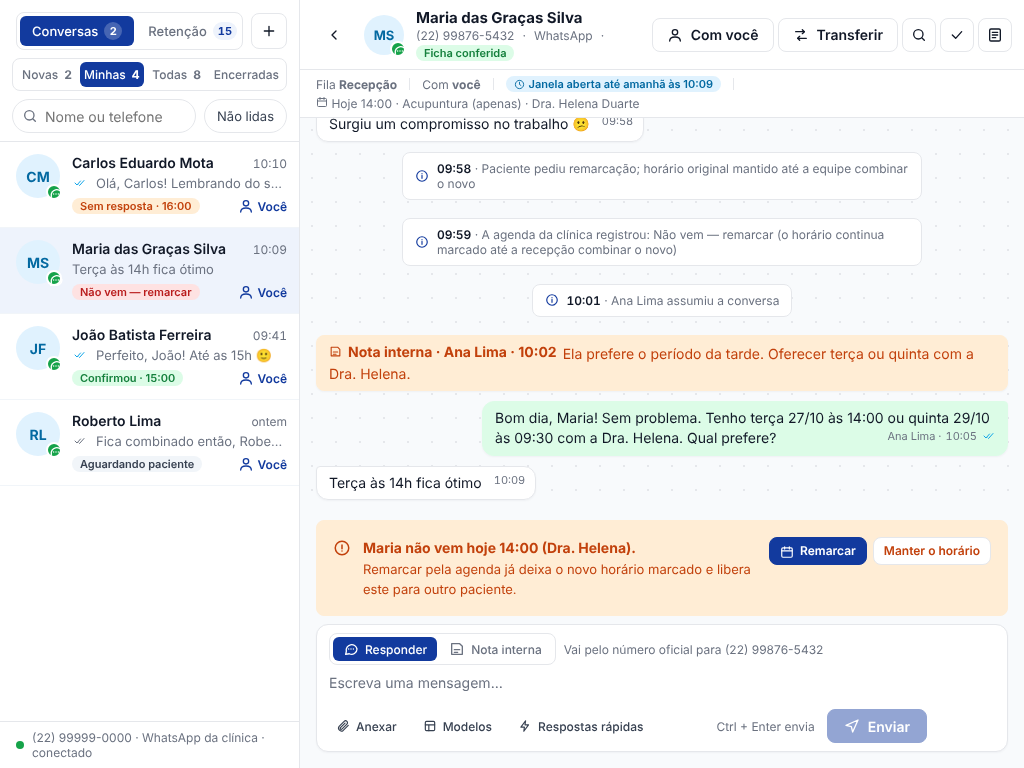
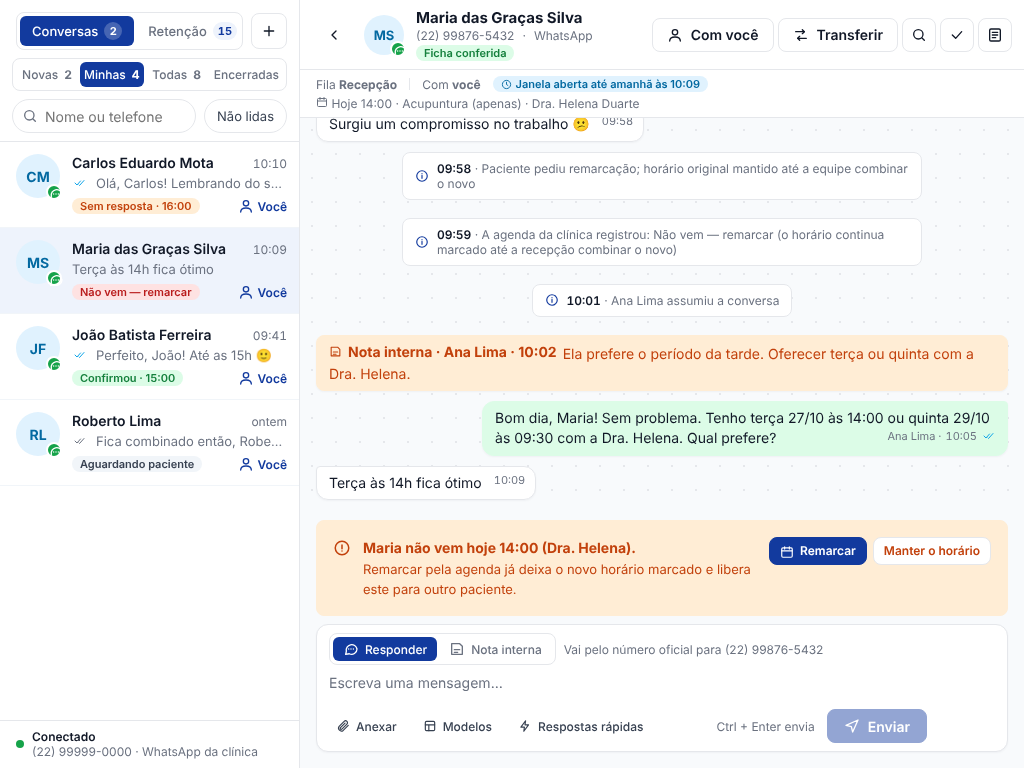
WhatsApp nativo: semente das telas estável no Postgres e acabamento do cabeçalho
- Semente da Equipe: a sessão do Dr. Caio dentro das férias caía em
  "hoje + 20" e ele só atende terça e quinta — no Postgres o gatilho
  CK_Agenda_Protegida recusava a semente em cinco dias de cada sete. Agora cai
  na terça ou quinta das férias e é gravada antes do bloqueio. Conferido com
  faketime nos sete dias; TelasBlazorAbremTests passou inteiro no Postgres
  (161/161). Resolve a pergunta 7 do roteiro da manhã.
- Conversa: o separador que podia ficar pendurado no fim da linha quando o
  cabeçalho ou a faixa quebram saiu (o selo já separa); o rodapé da lista
  mostra o estado em cima ("Conectado") e o número embaixo, em vez de quebrar
  o "conectado" sozinho. Fotos 02 refeitas em 1366 e 1024.
- Lição: semente com data relativa respeita a jornada de quem tem agenda
  protegida.

Claude-Session: https://claude.ai/code/session_01HpPiBY5jRicdjB3mfhNSrv

Changed region(s): [[0.0, 0.9375, 0.25, 1.0], [0.4688, 0.0938, 0.7188, 0.125]]

diff --git a/src/Clinica.Ui.Blazor/Ativos/css/telas/conversas.css b/src/Clinica.Ui.Blazor/Ativos/css/telas/conversas.css
@@ -99,6 +99,9 @@
   display:flex;align-items:center;gap:var(--space-2)}
 .wa-ponto{width:8px;height:8px;border-radius:50%;background:var(--sucesso);flex:none}
 .wa-ponto.fora{background:var(--erro)}
+.wa-conexao{display:flex;flex-direction:column;min-width:0;line-height:1.3}
+.wa-conexao b{font-weight:600;color:var(--texto-primario)}
+.wa-conexao small{font-size:inherit;overflow:hidden;text-overflow:ellipsis;white-space:nowrap}
 .wa-linhas .vazio-estado{padding:var(--space-10) var(--space-4)}
 
 /* ---------- Coluna 2: a conversa ---------- */

diff --git a/tools/PreviaBlazor/Sementes/Equipe.cs b/tools/PreviaBlazor/Sementes/Equipe.cs
@@ -87,15 +87,22 @@ public sealed class SementeEquipe : ISemente
         B(hoje.AddDays(9), hoje.AddDays(9).AddHours(23).AddMinutes(59), "Folga compensatória", profissional: abigail.Id);
         B(hoje.AddDays(40), hoje.AddDays(54).AddHours(23).AddMinutes(59), "Férias", profissional: abigail.Id);
 
-        // As férias do Dr. Caio, com uma sessão que já estava marcada dentro.
+        // As férias do Dr. Caio, com uma sessão que já estava marcada dentro. A sessão cai numa
+        // terça ou quinta às 15h (a jornada dele; as férias têm sete dias, então sempre há uma) e é
+        // gravada ANTES do bloqueio, como na vida real: no Postgres o gatilho da agenda protegida
+        // (CK_Agenda_Protegida) recusaria um horário fora da jornada ou dentro de um bloqueio já
+        // existente — e com o dia fixo em "+2" a semente quebrava em cinco dias de cada sete.
         var inicioFerias = hoje.AddDays(18);
-        B(inicioFerias, inicioFerias.AddDays(6).AddHours(23).AddMinutes(59), "Congresso de psiquiatria", profissional: caio.Id);
+        var diaDaSessao = Enumerable.Range(0, 7).Select(d => inicioFerias.AddDays(d))
+            .First(d => d.DayOfWeek is DayOfWeek.Tuesday or DayOfWeek.Thursday);
         var paciente = db.Pacientes.OrderBy(p => p.Id).First();
         db.Add(new Agendamento
         {
-            PacienteId = paciente.Id, ProfissionalId = caio.Id, DataHora = inicioFerias.AddDays(2).AddHours(15),
+            PacienteId = paciente.Id, ProfissionalId = caio.Id, DataHora = diaDaSessao.AddHours(15),
             ModalidadePrevista = ModalidadeAtendimento.Consulta, Status = StatusAgendamento.Agendado, DuracaoMinutos = 50
         });
+        db.SaveChanges();
+        B(inicioFerias, inicioFerias.AddDays(6).AddHours(23).AddMinutes(59), "Congresso de psiquiatria", profissional: caio.Id);
 
         B(hoje.AddDays(12).AddHours(13), hoje.AddDays(12).AddHours(18), "Manutenção do ar-condicionado", sala: alecrim.Id);
 

diff --git a/docs/agentes/convencoes.md b/docs/agentes/convencoes.md
@@ -5,7 +5,7 @@ sessão). O texto é o MESMO, sem reescrita: design system, WPF/XAML, Blazor, EF
 `verificar-suite`, assinatura digital, impressão, CRM e as rodadas de UI, cada uma com o defeito que a
 originou. Antes de escrever uma tela, uma consulta ou uma checagem, procure aqui a lição da área.
 
-## Índice (184 tópicos, na ordem do arquivo)
+## Índice (185 tópicos, na ordem do arquivo)
 
 Procure a palavra da área (`grep -n "palavra" docs/agentes/convencoes.md`) e leia o tópico inteiro antes de mexer nela.
 
@@ -193,6 +193,7 @@ Procure a palavra da área (`grep -n "palavra" docs/agentes/convencoes.md`) e le
 - Arquivo novo da prévia que uma SEMENTE usa entra também no `ValidarLayoutWindows.csproj`
 - `textarea` herda a fonte da casa pela regra COMUM, não por remendo de tela
 - Parâmetro `string` de componente Razor recebe expressão com `@`; sem ela recebe o TEXTO
+- Semente com data relativa a "hoje" respeita a JORNADA de quem tem agenda protegida
 
 ---
 
@@ -5005,3 +5006,12 @@ Procure a palavra da área (`grep -n "palavra" docs/agentes/convencoes.md`) e le
   pegou. Regra: atributo de componente que leva expressão começa com `@` sempre
   (`TelefoneInicial="@f.TelefoneInicial"`), e parâmetro novo `string` nasce com um teste que lê o
   que ele mostra.
+
+- **Semente com data relativa a "hoje" respeita a JORNADA de quem tem agenda protegida**
+  (out/2026). A sessão do Dr. Caio nas férias dele era `hoje + 20` às 15h; ele só atende terça e
+  quinta, e no Postgres o gatilho `CK_Agenda_Protegida` recusava a semente em cinco dias de cada
+  sete. O SQLite não tem o gatilho, então a prévia e o CI nunca viram. Regra: horário semeado para
+  profissional com `AgendaProtegida` escolhe um dia da jornada dele (procure o dia, não some um
+  número fixo), e o horário que "já estava marcado" antes de um bloqueio é gravado num
+  `SaveChanges` ANTERIOR ao do bloqueio. Para conferir: a família com `CLINICA_TESTES_POSTGRES` e
+  `faketime` em cada dia da semana.

diff --git a/docs/whatsapp-nativo-roteiro-da-manha.md b/docs/whatsapp-nativo-roteiro-da-manha.md
@@ -276,10 +276,12 @@ Nada disso trava o que está acima. São decisões para a próxima rodada.
    mensagem vai ao paciente sozinha (a secretária escreve). Está bom assim?
 6. **O PARAR do "Não quer voltar"** revoga a autorização só da ficha conferida; o PARAR que o
    paciente manda pelo CRM revoga todas as fichas com aquele telefone. Quer igualar?
-7. **Teste das telas no Postgres.** Com `CLINICA_TESTES_POSTGRES`, uma semente antiga da prévia
-   (o horário do Dr. Caio) cai fora da jornada conforme o dia e o gatilho da agenda recusa. Já
-   era assim antes desta noite e o `CLAUDE.md` diz que essa rede não cobre telas. Corrigir a
-   semente para cair sempre na jornada é pequeno; fica para quando quiser.
+7. ~~**Teste das telas no Postgres.**~~ **Resolvido na madrugada.** A sessão do Dr. Caio dentro
+   das férias caía em "hoje + 20" e ele só atende terça e quinta: em cinco dias de cada sete o
+   gatilho da agenda protegida recusava. A semente passou a escolher a terça ou quinta das férias
+   e a gravar a sessão antes do bloqueio. Conferido no Postgres com o relógio em cada um dos sete
+   dias da semana (a semente antiga reprova num sábado, a nova passa nos sete), e o
+   `TelasBlazorAbremTests` inteiro passou no Postgres (161 de 161, cada botão clicado). Nada para decidir.
 
 ### O que fica para as fases 2 e 3
 

diff --git a/docs/whatsapp-nativo-implementacao.md b/docs/whatsapp-nativo-implementacao.md
@@ -388,8 +388,8 @@ novas (`WhatsAppDaRecepcao`, `TraducaoNoNpgsql`, `AgendaService`, `Acompanhament
 - Com `CLINICA_TESTES_POSTGRES`, o banco das telas (`BancoDasTelas`) também vai ao Postgres, e uma
   semente ANTIGA (horário do Dr. Caio, agenda protegida) cai fora da jornada conforme o dia: o
   gatilho `CK_Agenda_Protegida` recusa. **É anterior a esta rodada** (reproduzido no commit
-  `1a828bd`) e coerente com o `CLAUDE.md` ("a rede do Postgres não cobre as telas"). Não corrigido
-  aqui; está nas perguntas da manhã.
+  `1a828bd`). **Corrigido depois, na mesma noite:** a sessão das férias cai numa terça ou quinta
+  (a jornada dele) e é gravada antes do bloqueio; conferido no Postgres nos sete dias da semana.
 - O CRM real recusa assumir/transferir/reabrir enquanto há envio em `sending` ("Aguarde o envio em
   andamento"); o CRM de mentira não imita. A tela trata: no 409 relê e mostra a frase.
 

diff --git a/CLAUDE.md b/CLAUDE.md
@@ -598,7 +598,7 @@ arquivos que você LÊ quando a tarefa toca a área (cada um abre com o índice 
   financeiro (pacotes, caixa, cartão, tributos, repasse, estoque), agenda e recepção (busca de
   paciente, lançamentos, confirmações, SMS), Consultório e prontuário (evolução, enfermagem,
   infusão, prescrição, documentos clínicos, certificação digital, LGPD), BI e direção.
-- **`docs/agentes/convencoes.md`** (184 tópicos) — como se escreve aqui: design system,
+- **`docs/agentes/convencoes.md`** (185 tópicos) — como se escreve aqui: design system,
   WPF/XAML (bindings, conversores, teto e piso de tela), Blazor, EF/Npgsql (tradução, `Task.WhenAll`,
   migrations), as checagens do `verificar-suite`, assinatura digital (DER/CMS, carimbo), impressão
   e PDF, ponte do CRM e cada rodada de UI com o que ela achou.
